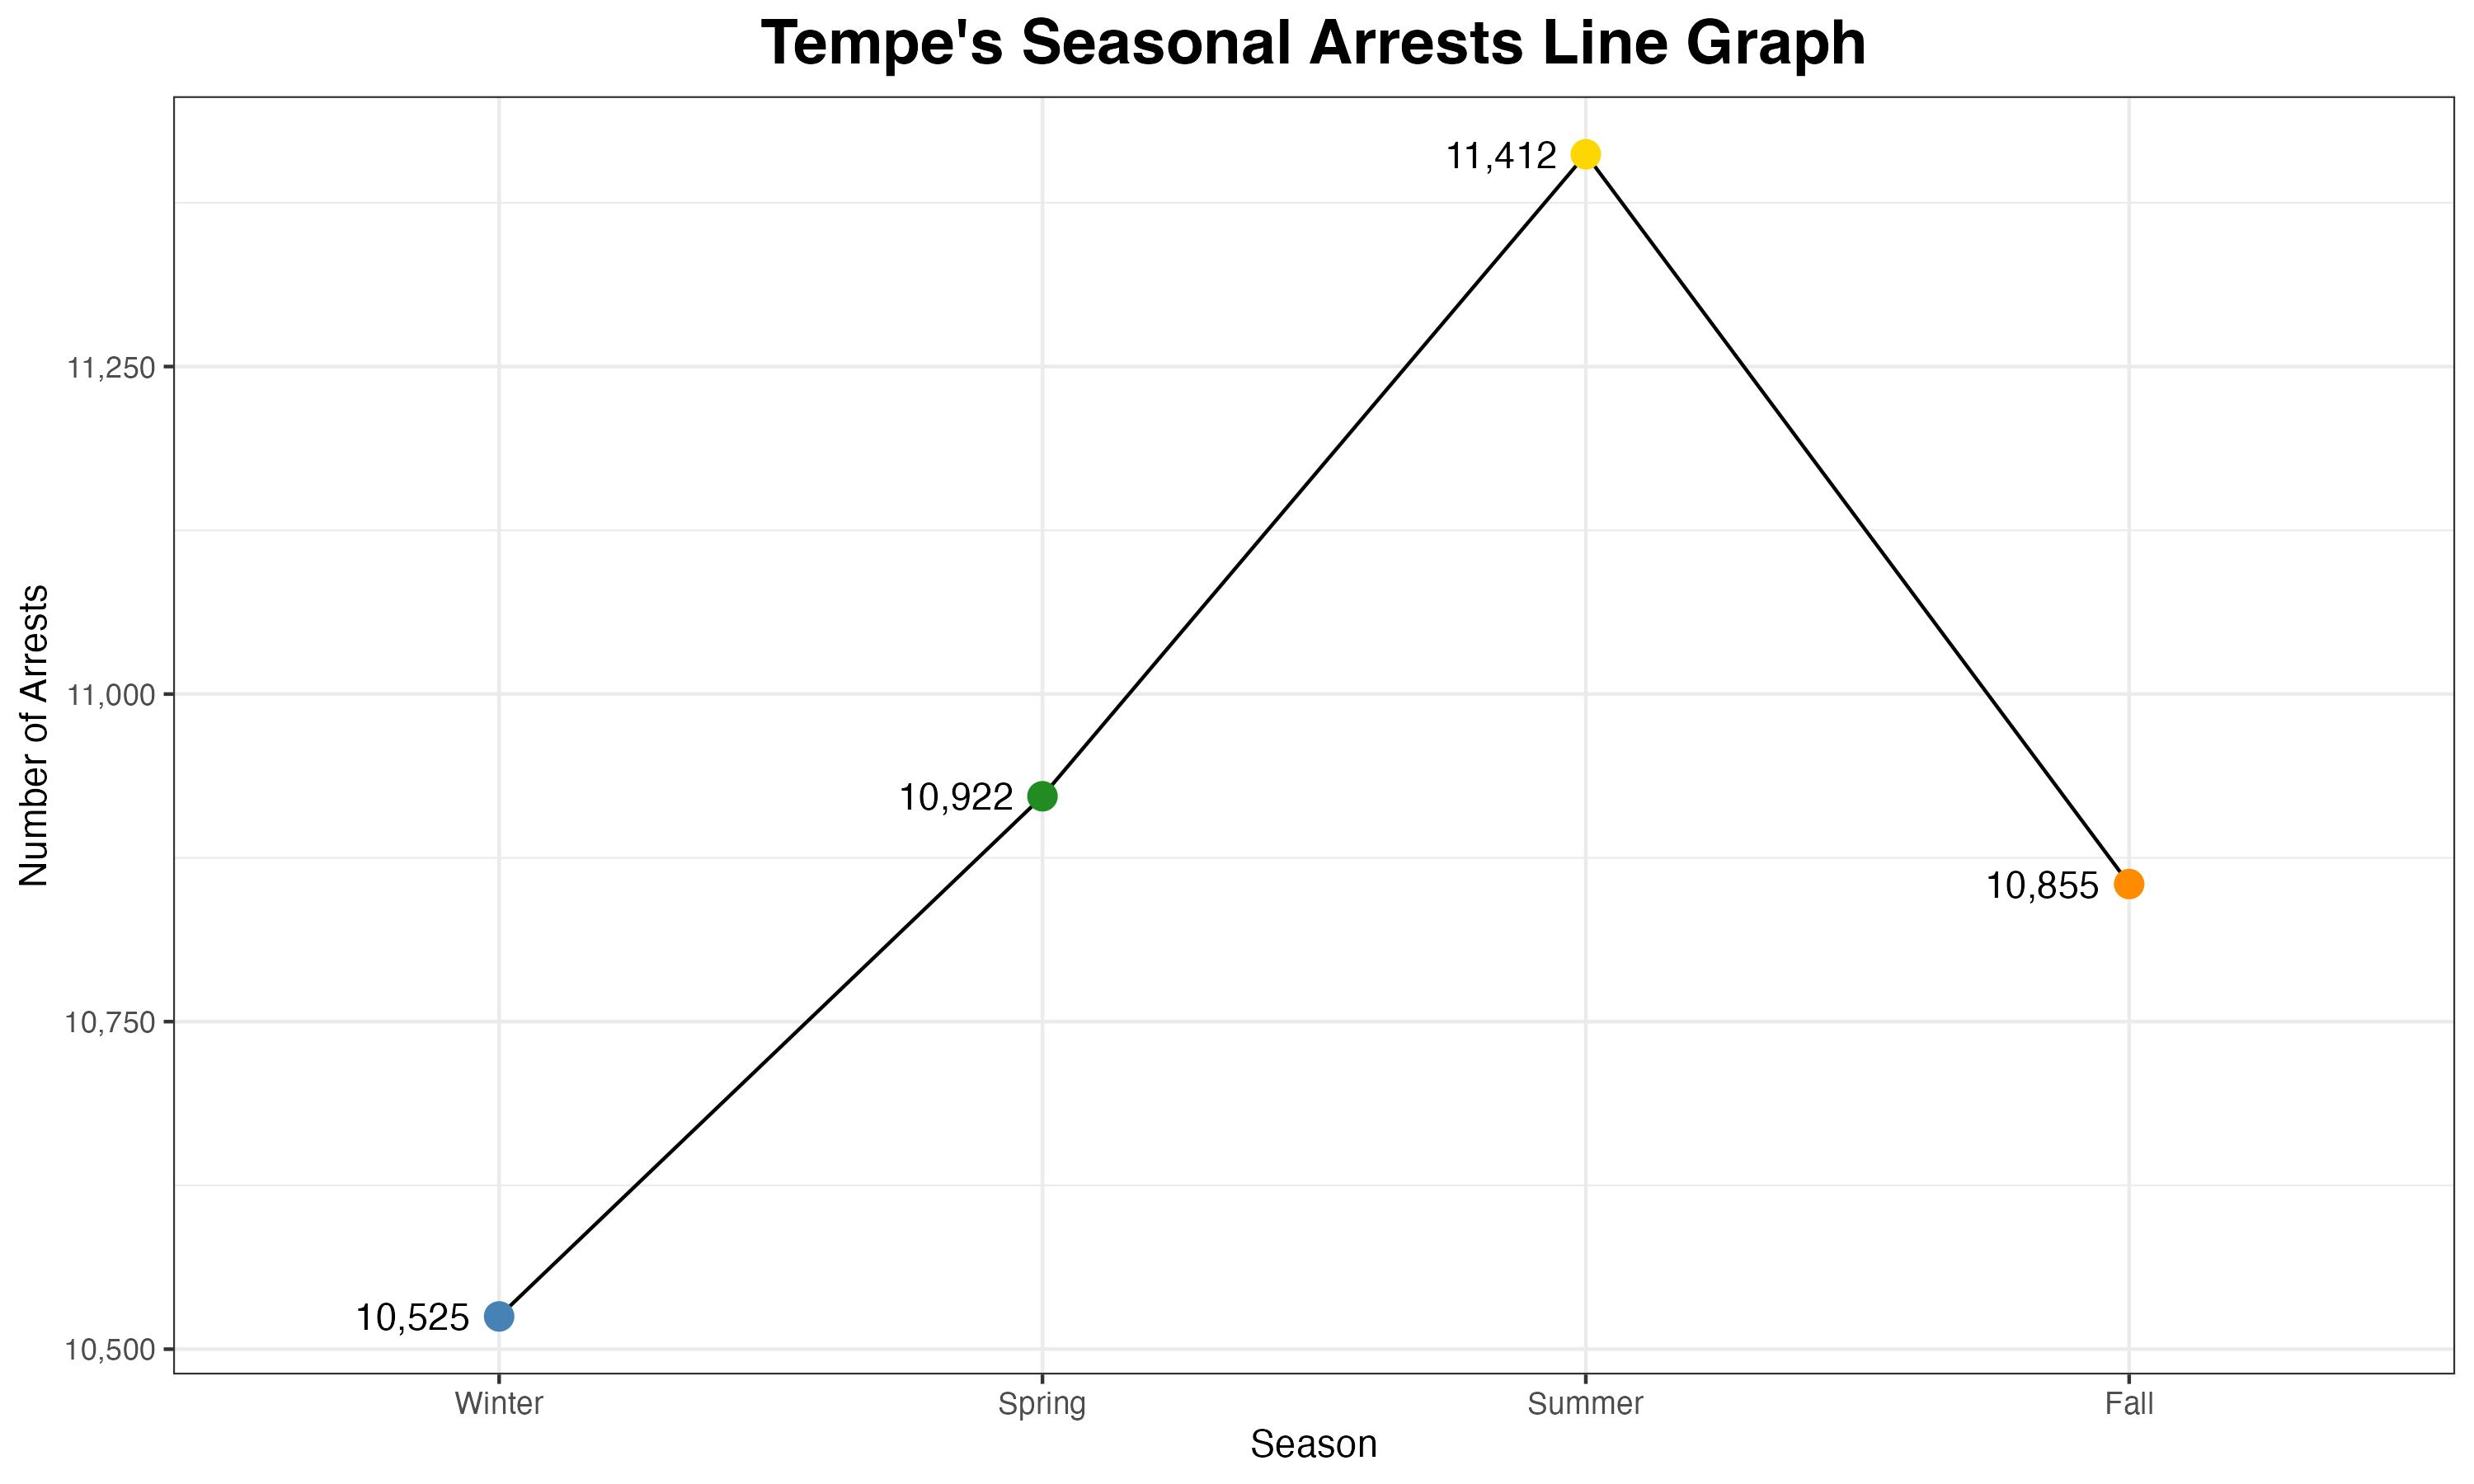
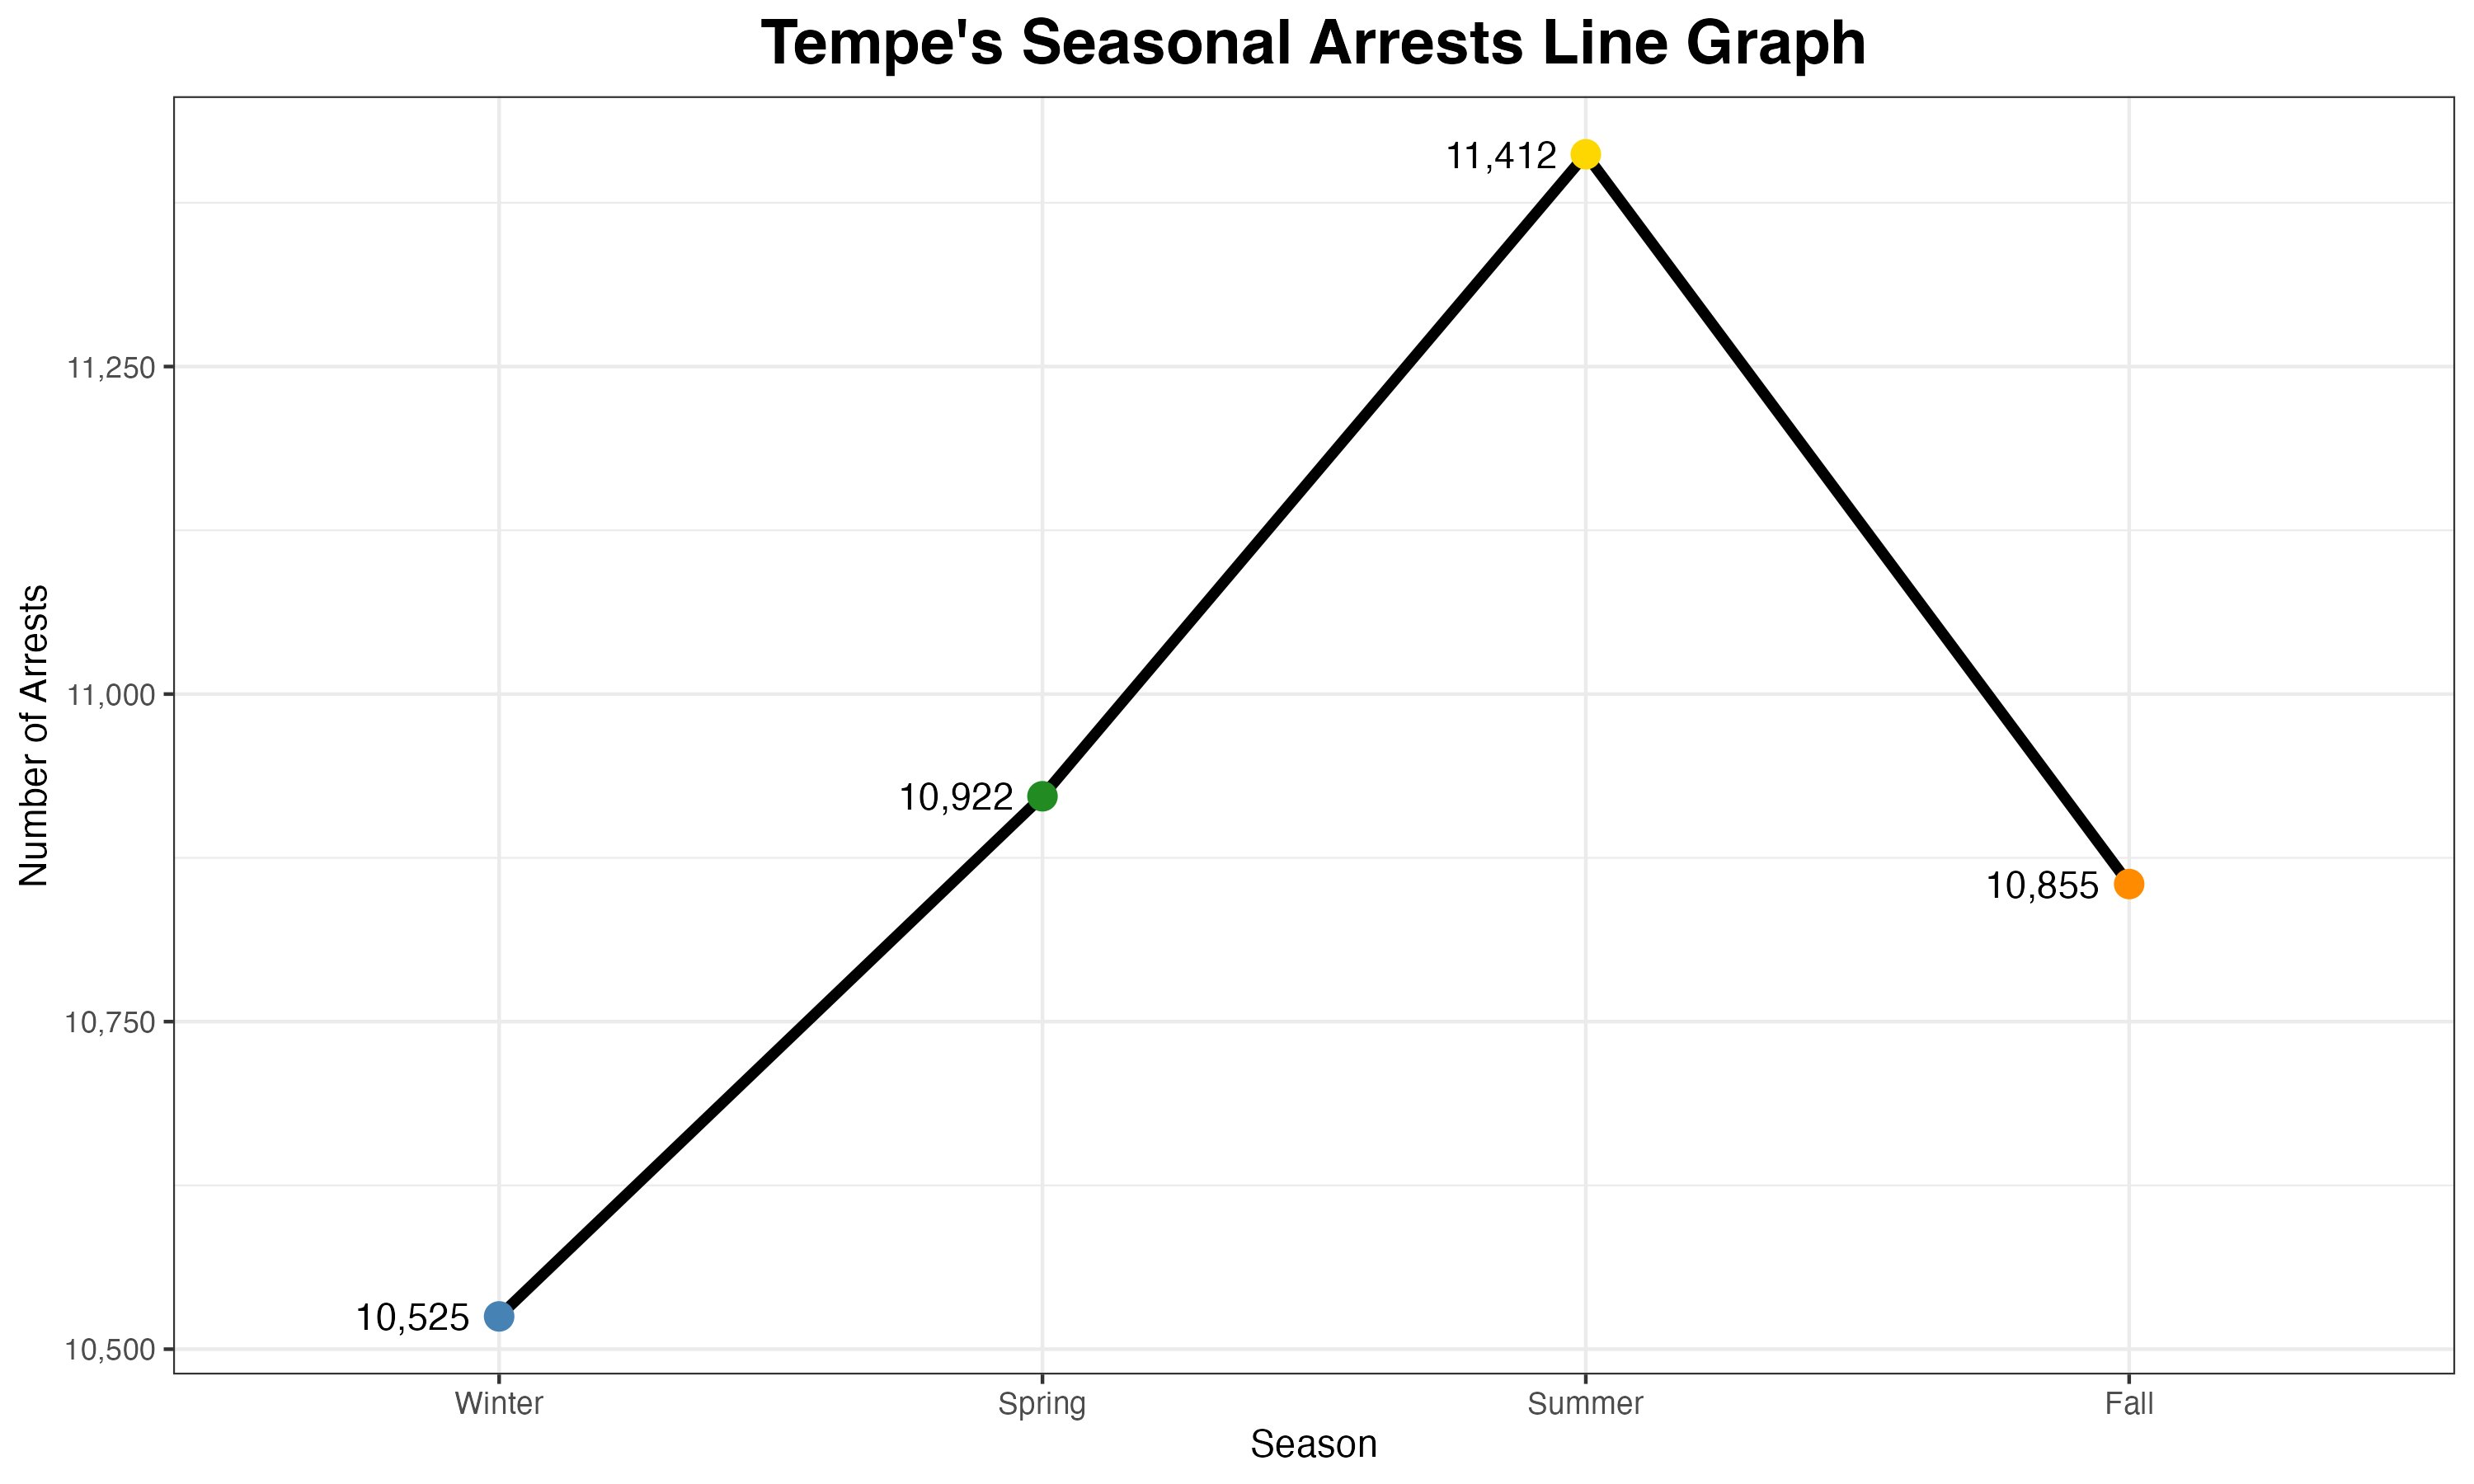
Top Location Bar Chart

diff --git a/README.md b/README.md
@@ -49,6 +49,7 @@ Current questions include:
 - Are weekends different from weekdays?
 - What times of day have the highest arrest activity?
 - How have arrest patterns changed over time?
+- What are the geographical patterns?
 
 Additional questions will be added as new patterns emerge during the analysis.
 
@@ -96,9 +97,23 @@ easier to recognize.
 * Both visualizations support the conclusion that seasonal variation exists but 
 remains relatively modest.
 
-## 4.a. Hourly Arrest Pattern(Line Graph)
+## 4.q Hourly Arrest Patterns (Bar Chart)
+###Figure
+![Hourly Arrests Line Graph](plots/hourly_arrests_bar_chart.png)
+### Hourly Arrest Analysis
+* Arrest activity peaks during the overnight hours, with the highest number of 
+arrests occurring around **1:00 AM**.
+* Arrests decline sharply during the early morning hours before gradually 
+increasing throughout the day.
+* A secondary period of elevated arrest activity occurs during the afternoon 
+and late evening, suggesting multiple periods of increased law enforcement activity.
+* An interactive Plotly version of this visualization is available in the 
+project's interactive visualizations (coming soon), allowing users to hover over
+each hour to view the exact arrest totals.
+
+## 4.b. Hourly Arrest Patterns (Line Graph)
 ### Figure
-![Seasonal Arrests Line Graph](plots/hourly_arrests_line_graph.png)
+![Hourly Arrests Line Graph](plots/hourly_arrests_line_graph.png)
 ### Hourly Arrest Analysis
 * Arrest activity is highest during the early morning hours around 1 AM, 
 indicating increased enforcement or criminal activity overnight.
@@ -108,6 +123,17 @@ increasing throughout the afternoon and evening.
 elevated after typical business hours.
 * The interactive Plotly visualization allows users to inspect the exact arrest 
 count for every hour of the day.
+
+## Top Locations Bar Chart
+![Top Locations Bar Chart](plots/top_locations_plot.png)
+* S Mill Avenue recorded substantially more arrests than any other roadway in 
+the dataset.
+* Several major transportation corridors—including Baseline Road, Apache Blvd, 
+Scottsdale Road, and Rural Road—appear among the highest arrest locations.
+* The concentration of arrests along major arterial roads suggests enforcement 
+activity and traffic-related incidents contribute heavily to overall arrest volume.
+*This visualization identifies geographic corridors that may warrant additional 
+public safety analysis or resource allocation.
 
 ## Tools Used
 ##
@@ -119,6 +145,12 @@ count for every hour of the day.
 - Git
 - GitHub
 
+## Interactive Visualizations
+
+Several charts in this project have also been developed as interactive Plotly 
+visualizations. Interactive versions will be published using GitHub Pages as the
+project continues to expand, allowing users to hover over data points and explore 
+exact values.
 ---
 
 ## Current Progress
@@ -137,7 +169,7 @@ Completed:
 
 
 In Progress:
-- Day-of-week analysis
+- Geographical analysis
 - Additional visualizations
 
 
@@ -146,8 +178,6 @@ In Progress:
 ## Future Improvements
 
 Planned additions include:
-- Day-of-week analysis
-- Arrest type comparisons
 - Geographic crime visualizations
 - Interactive dashboard
 - Statistical modeling of crime patterns

diff --git a/docs/methodology.md b/docs/methodology.md
@@ -1,0 +1,1 @@
+in progress